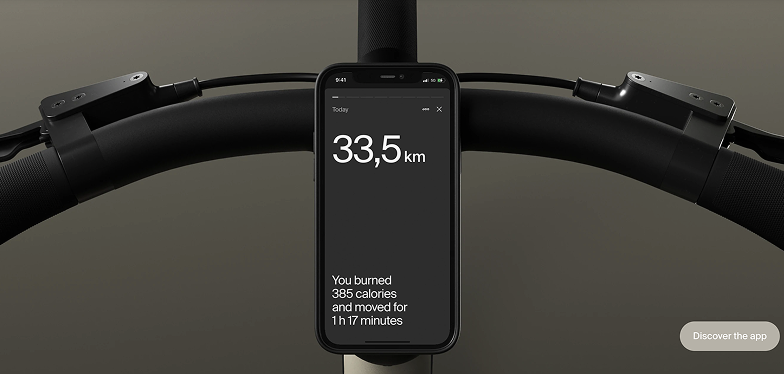
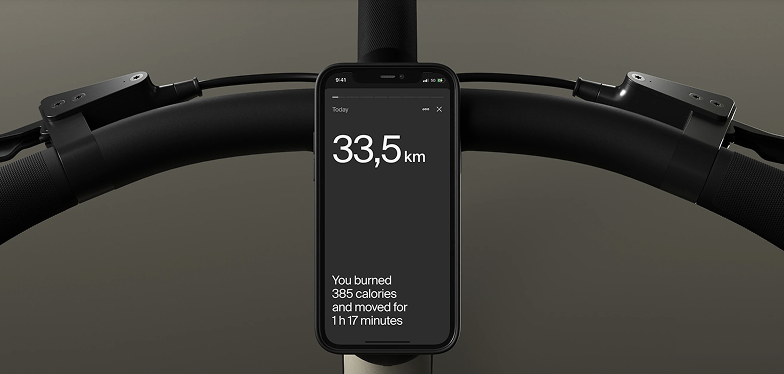
solution

Changed region(s): [[0.8571, 0.8529, 1.0, 0.9412]]

diff --git a/index.html b/index.html
@@ -264,7 +264,7 @@
                 type="email"
                 name="user-email"
                 class="form__input"
-                placeholder="Email"
+                placeholder="Your Email"
                 required
               >
 
@@ -277,7 +277,7 @@
               ></textarea>
 
               <div class="form__button-container">
-                <button type="reset" class="button form__button">
+                <button type="submit" class="button form__button">
                   Send
                 </button>
               </div>

diff --git a/src/styles/blocks/contacts.scss b/src/styles/blocks/contacts.scss
@@ -36,6 +36,12 @@
       font: inherit;
       text-decoration: none;
       display: inline-block;
+
+      transition: 0.3s;
+
+      &:hover {
+        transform: scale(1.05);
+      }
     }
   }
 }

diff --git a/src/styles/blocks/footer.scss b/src/styles/blocks/footer.scss
@@ -8,6 +8,8 @@
   background-position: center center;
   background-size: cover;
 
+  z-index: -1;
+
   @include on-tablet {
     background-image: url('../images/footer_tablet.png');
 
